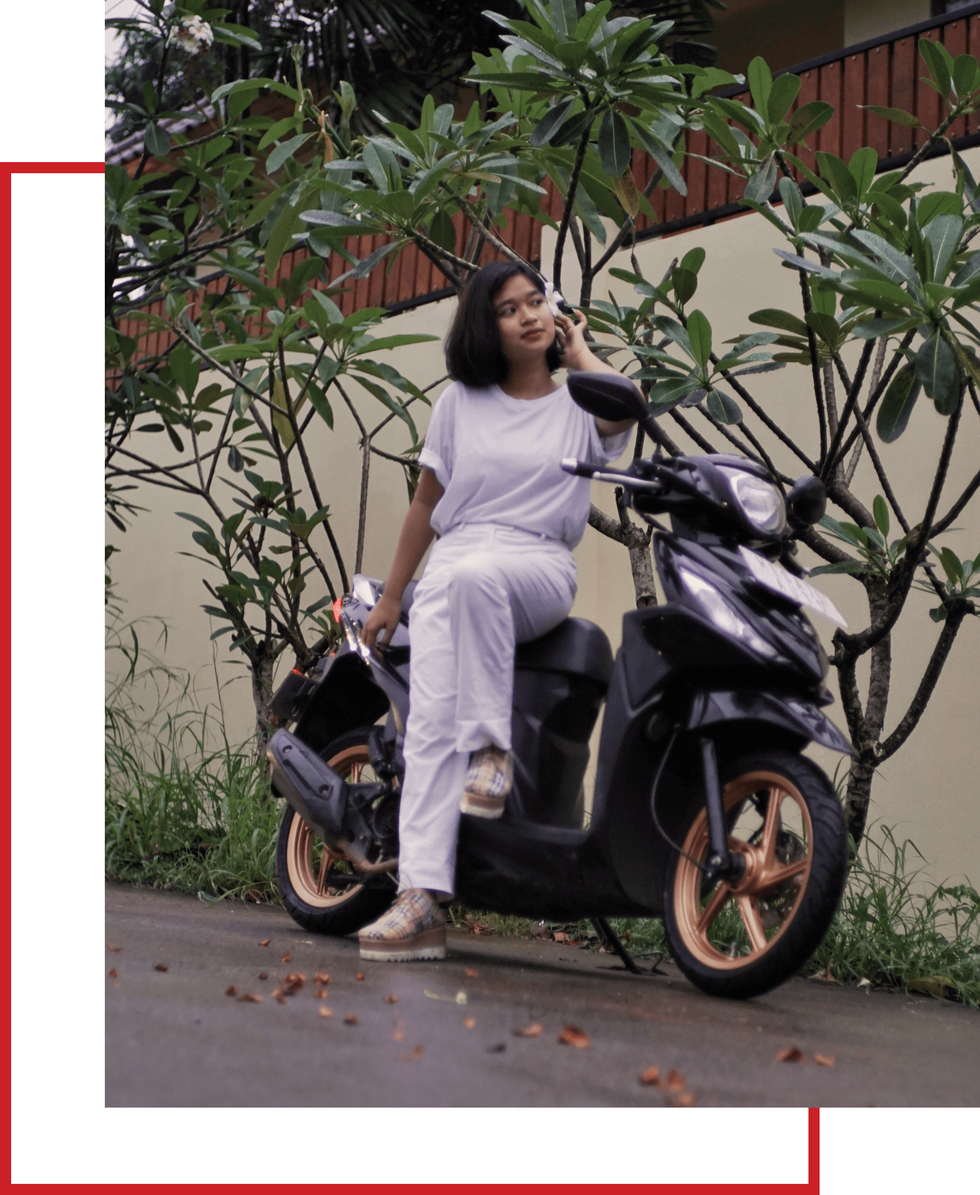
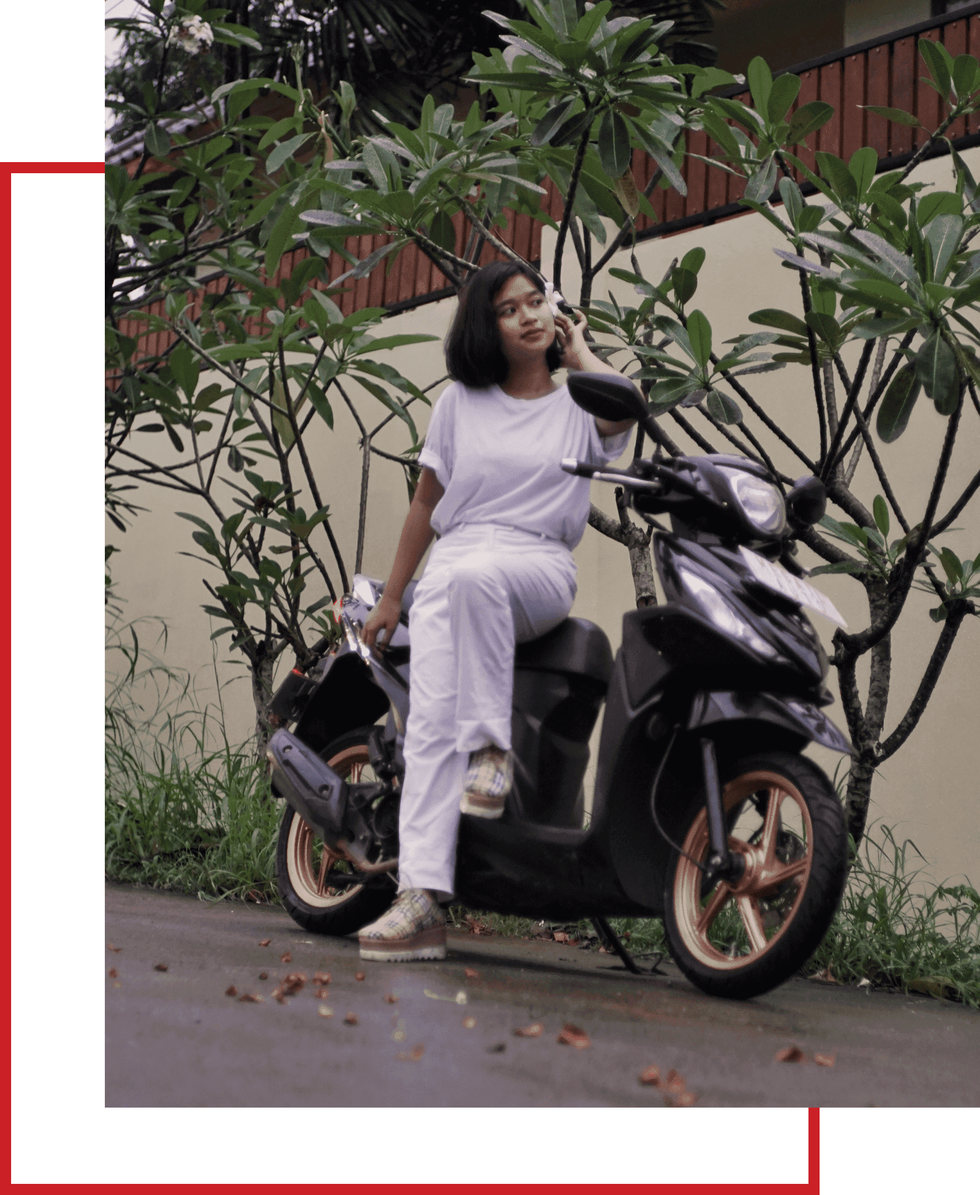
compress images and minor fixes

diff --git a/src/views/Home.vue b/src/views/Home.vue
@@ -127,6 +127,9 @@
 
 export default {
   name: 'Home',
+  created() {
+    document.title = "Welcome to MesailAuto";
+  }
 
 }
 </script>
@@ -320,7 +323,7 @@ img {
   transition: 0.2s;
 }
 .second-sector-img img {
-  width: 550px;
+  width: 525px;
 }
 .second-sector {
   display: flex;
@@ -336,7 +339,7 @@ img {
 }
 .second-sector-text-title-line {
   background: red;
-  width: 100%;
+  width: 95%;
   height: 7px;
   margin-top:10px;
 }
@@ -345,7 +348,7 @@ img {
   text-align: left;
 }
 .second-sector-btn {
-  border: 7px red solid;
+  border: 5px red solid;
   width: 200px;
   padding: 20px;
   font-size: 25px;
@@ -359,7 +362,8 @@ img {
   transition: 0.3s;
 }
 .third-sector-left img {
-  width: 600px;
+  width: auto;
+  max-width: 550px;
 }
 .third-sector {
   display: flex;
@@ -374,19 +378,19 @@ img {
 }
 .third-sector-left-text h3 {
   font-weight: lighter;
-  font-size: 30px;
+  font-size: 32px;
 }
 .third-sector-left-text h1 {
   font-weight: bolder;
-  font-size: 50px;
+  font-size: 45px;
 }
 .third-sector-right-text h3 {
   font-weight: bolder;
-  font-size: 29px;
+  font-size: 27px;
 }
 .third-sector-right-text h2 {
   font-weight: lighter;
-  font-size: 26px;
+  font-size: 24px;
 }
 .fourth-sector img {
   width: 400px;
@@ -410,7 +414,9 @@ img {
   font-weight: bolder;
 }
 .fifth-sector img {
-  width: 550px;
+  width: 100%;
+  min-width: 475px;
+  max-width: 550px;
 }
 .fifth-sector {
   display: flex;
